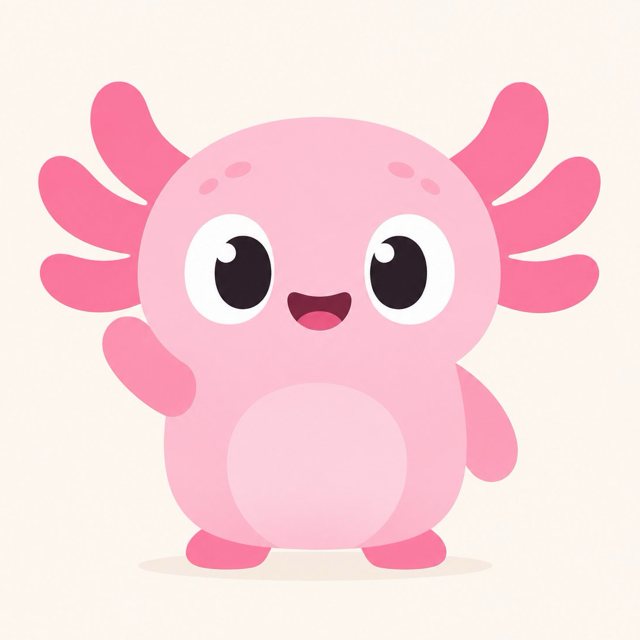
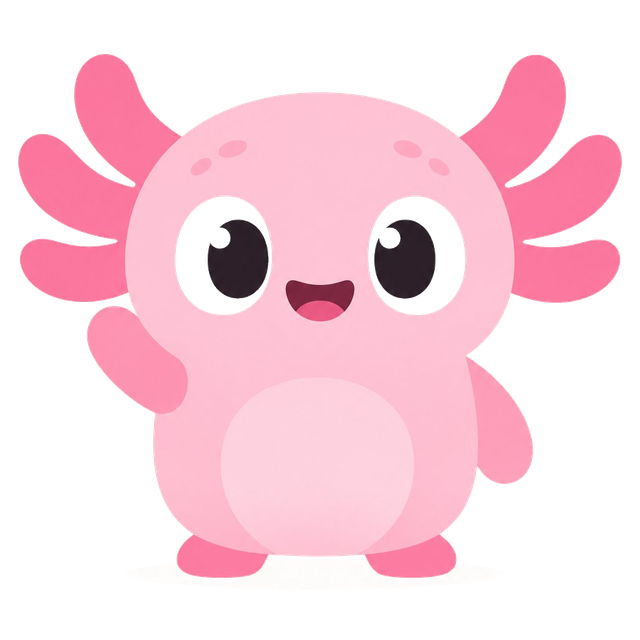
feat(brand): genuinely transparent mascot, one axolotl on the page
- keyed the cream ground out of the supplied JPEG with Pillow (no ImageMagick on this machine):
  a SOFT alpha ramp (max-channel difference, LO=10 HI=36) rather than a hard threshold, so the
  pink outline is not left jagged. 67 percent of the frame is transparent.
- the grey drop shadow is gone too: pixels that are both desaturated (sat < 12) and light
  (value > 200) are zeroed, which removes the ellipse under the feet without touching the pale
  pink belly (its saturation is far higher).
- master cropped to a square centred on the character and saved at 640, so one file serves the
  hero and every icon.
- og:image / twitter:image must not carry alpha (scrapers composite onto black), so
  icon-512.png is the keyed mascot FLATTENED onto the site's own cream ground, while
  axolotl-mascot.png, favicon-32.png and apple-touch-icon.png keep transparency.
- dropped the mix-blend-mode: multiply rule: it was a workaround for the opaque source and
  would now just darken the mascot.
- removed the six decorative blob figures (and the one in the Spanish page). Two different
  axolotls on one page was the inconsistency being fixed, and a shaded illustration does not
  read as a faint background motif. A clean section beats a second, wrong axolotl.

diff --git a/public/es.html b/public/es.html
@@ -35,15 +35,14 @@
     <link rel="stylesheet" href="/site.css?v=proactive-examples-1" />
     <script src="/site.js?v=persistent-headline-1" defer></script>
     <style>
-      /* The mascot illustration sits on a cream ground, so multiply blends it into the page
-         instead of showing a square. The motion is a gentle float, and the pause button that
-         site.js provides genuinely stops it. */
+      /* The mascot is a transparent PNG, so it sits on the page with no plate behind it.
+         The motion is a gentle float, and the pause button that site.js provides genuinely
+         stops it. */
       .axolotl-figure {
         display: block;
         width: 100%;
         height: 100%;
         object-fit: contain;
-        mix-blend-mode: multiply;
         animation: axolotl-float 6s ease-in-out infinite;
       }
       #benny-wake[data-paused="true"] .axolotl-figure { animation-play-state: paused; }
@@ -131,15 +130,6 @@
 
       <section class="section wrap problem" aria-labelledby="problem-title">
         <div class="section-intro">
-          <span class="benny-peek benny-peek-familiar" aria-hidden="true">
-            <img
-              src="/animation/axolotl-mark-coral.svg"
-              alt=""
-              width="80"
-              height="80"
-              loading="lazy"
-            />
-          </span>
           <p class="section-label">¿Te suena?</p>
           <h2 id="problem-title">
             Ocho correos a la semana.<br />Uno que importa.
@@ -269,15 +259,6 @@
         id="how-it-works"
         aria-labelledby="how-title"
       >
-        <span class="benny-peek" aria-hidden="true">
-          <img
-            src="/animation/axolotl-mark-teal.svg"
-            alt=""
-            width="96"
-            height="96"
-            loading="lazy"
-          />
-        </span>
         <div class="wrap">
           <div class="section-heading">
             <div>
@@ -343,15 +324,6 @@
         id="trust"
         aria-labelledby="trust-title"
       >
-        <span class="benny-peek benny-peek-trust" aria-hidden="true">
-          <img
-            src="/animation/axolotl-mark-blue.svg"
-            alt=""
-            width="96"
-            height="96"
-            loading="lazy"
-          />
-        </span>
         <div class="section-heading">
           <div>
             <p class="section-label">Lo que no va a hacer</p>
@@ -486,15 +458,6 @@
         id="handles"
         aria-labelledby="handles-title"
       >
-        <span class="benny-peek benny-peek-left" aria-hidden="true">
-          <img
-            src="/animation/axolotl-mark-indigo.svg"
-            alt=""
-            width="96"
-            height="96"
-            loading="lazy"
-          />
-        </span>
         <div class="wrap employer-grid">
           <div>
             <p class="section-label">En la práctica</p>
@@ -544,15 +507,6 @@
         id="waitlist"
         aria-labelledby="waitlist-title"
       >
-        <span class="benny-peek benny-peek-bottom" aria-hidden="true">
-          <img
-            src="/animation/axolotl-mark-amber.svg"
-            alt=""
-            width="96"
-            height="96"
-            loading="lazy"
-          />
-        </span>
         <div>
           <p class="section-label">Acceso anticipado</p>
           <h2 id="waitlist-title">Únete a la lista.</h2>

diff --git a/public/index.html b/public/index.html
@@ -35,15 +35,14 @@
     <link rel="stylesheet" href="/site.css?v=proactive-examples-1" />
     <script src="/site.js?v=persistent-headline-1" defer></script>
     <style>
-      /* The mascot illustration sits on a cream ground, so multiply blends it into the page
-         instead of showing a square. The motion is a gentle float, and the pause button that
-         site.js provides genuinely stops it. */
+      /* The mascot is a transparent PNG, so it sits on the page with no plate behind it.
+         The motion is a gentle float, and the pause button that site.js provides genuinely
+         stops it. */
       .axolotl-figure {
         display: block;
         width: 100%;
         height: 100%;
         object-fit: contain;
-        mix-blend-mode: multiply;
         animation: axolotl-float 6s ease-in-out infinite;
       }
       #benny-wake[data-paused="true"] .axolotl-figure { animation-play-state: paused; }
@@ -130,15 +129,6 @@
 
       <section class="section wrap problem" aria-labelledby="problem-title">
         <div class="section-intro">
-          <span class="benny-peek benny-peek-familiar" aria-hidden="true">
-            <img
-              src="/animation/axolotl-mark-coral.svg"
-              alt=""
-              width="80"
-              height="80"
-              loading="lazy"
-            />
-          </span>
           <p class="section-label">Sound familiar?</p>
           <h2 id="problem-title">Eight emails a week.<br />One that matters.</h2>
           <p>
@@ -262,15 +252,6 @@
         id="how-it-works"
         aria-labelledby="how-title"
       >
-        <span class="benny-peek" aria-hidden="true">
-          <img
-            src="/animation/axolotl-mark-teal.svg"
-            alt=""
-            width="96"
-            height="96"
-            loading="lazy"
-          />
-        </span>
         <div class="wrap">
           <div class="section-heading">
             <div>
@@ -335,15 +316,6 @@
         id="trust"
         aria-labelledby="trust-title"
       >
-        <span class="benny-peek benny-peek-trust" aria-hidden="true">
-          <img
-            src="/animation/axolotl-mark-blue.svg"
-            alt=""
-            width="96"
-            height="96"
-            loading="lazy"
-          />
-        </span>
         <div class="section-heading">
           <div>
             <p class="section-label">What it will not do</p>
@@ -478,15 +450,6 @@
         id="handles"
         aria-labelledby="handles-title"
       >
-        <span class="benny-peek benny-peek-left" aria-hidden="true">
-          <img
-            src="/animation/axolotl-mark-indigo.svg"
-            alt=""
-            width="96"
-            height="96"
-            loading="lazy"
-          />
-        </span>
         <div class="wrap employer-grid">
           <div>
             <p class="section-label">In practice</p>
@@ -535,15 +498,6 @@
         id="waitlist"
         aria-labelledby="waitlist-title"
       >
-        <span class="benny-peek benny-peek-bottom" aria-hidden="true">
-          <img
-            src="/animation/axolotl-mark-amber.svg"
-            alt=""
-            width="96"
-            height="96"
-            loading="lazy"
-          />
-        </span>
         <div>
           <p class="section-label">Early access</p>
           <h2 id="waitlist-title">Join the pilot.</h2>
